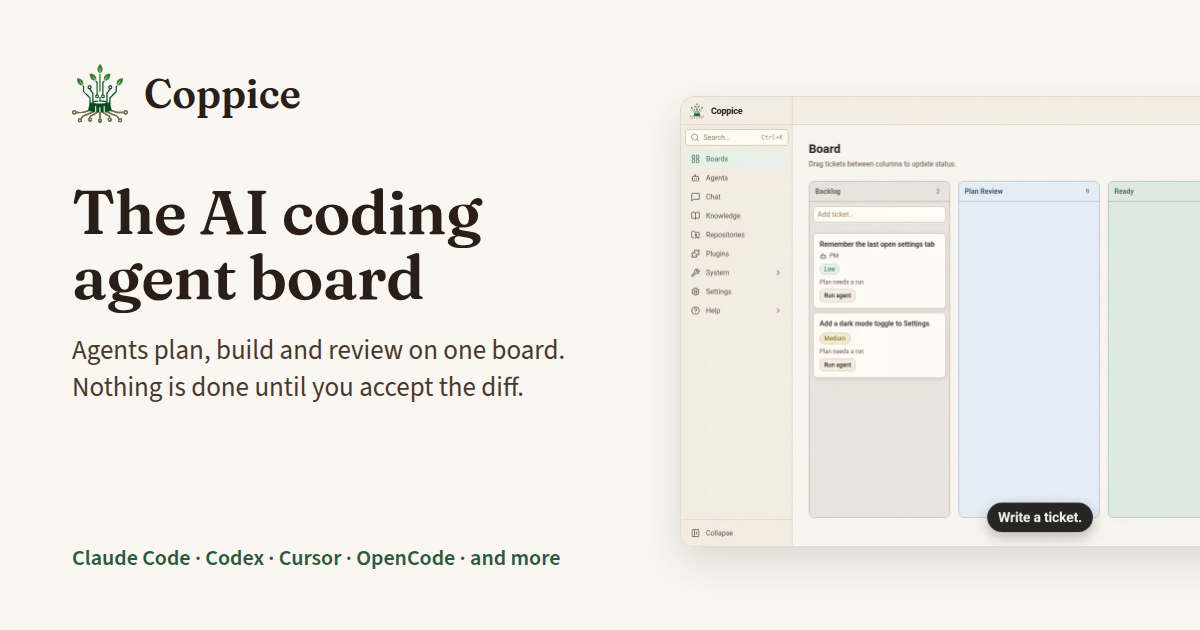
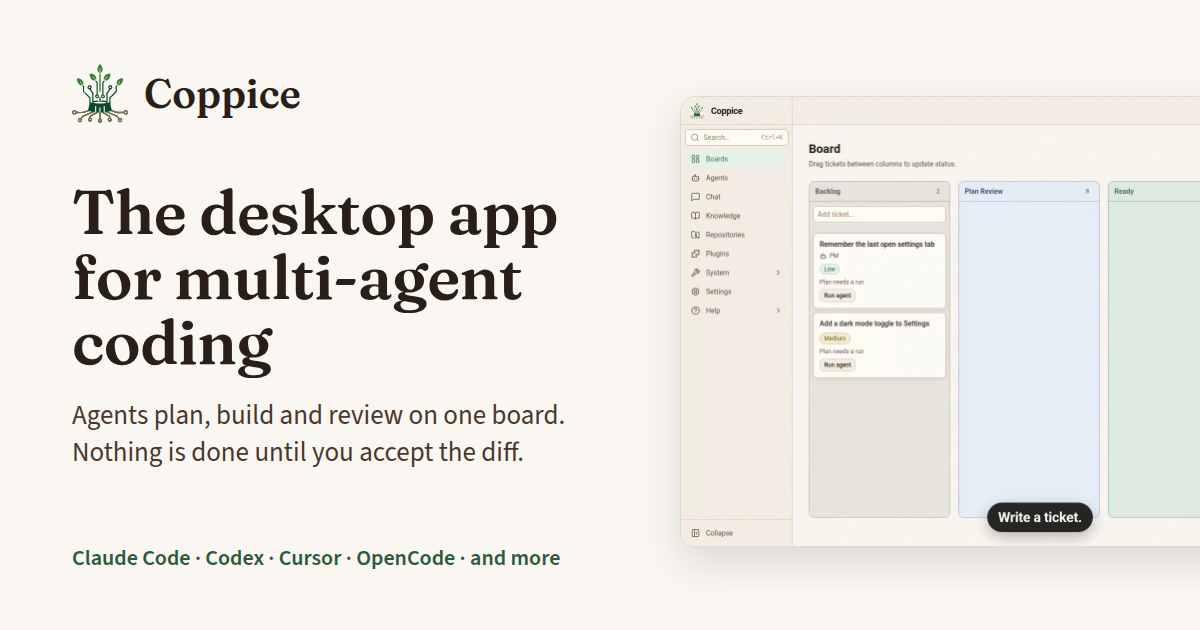
Use "multi-agent coding" wording across the site, READMEs, and packages
PR #260 changed the homepage title. This updates the rest of the site and
package text to match: the primary keyword and structured data, the social
card and its alt text, the web manifest, download and docs-index meta, the
localized READMEs, and the Linux package summary. "AI coding agent board"
stays as a secondary keyword. Also fixes the sentence order in two blog
back-links and removes the repeated CLI names from the homepage intro.

Changed region(s): [[0.0617, 0.3016, 0.4625, 0.754]]

diff --git a/website/src/i18n/pages/en.ts b/website/src/i18n/pages/en.ts
@@ -8,7 +8,7 @@ export const pages = {
       'Coppice is a desktop app for multi-agent coding. You write tickets, approve the plan, and accept the diff. Agents run CLIs such as Claude Code and Codex.',
     worksWith: 'Works with',
     h1: 'Hire specialists. Keep the final say.',
-    lede: 'A desktop app for multi-agent coding with Claude Code, Codex, and more. Your PM agent drafts the plan, and you approve it. Specialist agents build in parallel. Nothing is done until you accept the diff.',
+    lede: 'A desktop app for multi-agent coding. Your PM agent drafts the plan, and you approve it. Specialist agents build in parallel. Nothing is done until you accept the diff.',
     hero: {
       stillAlt: 'Coppice board with tickets for the acme-web repository',
       videoAlt:
@@ -76,7 +76,7 @@ export const pages = {
     title: 'Download Coppice',
     metaTitle: 'Download Coppice for macOS and Linux',
     description:
-      'Download Coppice, the free, open source AI coding agent board, for macOS (Apple Silicon or Intel) and Linux. It runs on your machine without a Coppice account.',
+      'Download Coppice, the free, open source desktop app for multi-agent coding, for macOS and Linux. It runs on your machine without a Coppice account.',
     intro: "Coppice is free. It runs on your machine, and you don't need a Coppice account.",
     groups: [
       {
@@ -120,7 +120,7 @@ export type Pages = typeof pages;
 export const homeEntry = {
   whatTitle: 'What Coppice is',
   whatBody:
-    'Coppice is a local desktop board for coding agents. You write tickets on your own machine. The agents run CLIs you already use, such as Claude Code, Codex, and Cursor, and each ticket gets its own git worktree. You don\'t need a Coppice account. Coppice does not ask for or store a provider API key.',
+    'Coppice is a desktop app for multi-agent coding. You write tickets on your own machine. The agents run CLIs you already use, such as Claude Code, Codex, and Cursor, and each ticket gets its own git worktree. You don\'t need a Coppice account. Coppice does not ask for or store a provider API key.',
   guidesTitle: 'Guides',
   guides: [
     {

diff --git a/website/src/i18n/pages/ja.ts b/website/src/i18n/pages/ja.ts
@@ -10,7 +10,7 @@ export const pages: Pages = {
       'Coppice はマルチエージェント開発のデスクトップアプリです。計画を承認し、diff を受け入れます。Claude Code や Codex などがパソコンで動きます。',
     worksWith: '対応 CLI：',
     h1: '専門家を雇い、最終判断はあなたに。',
-    lede: 'Claude Code、Codex などに対応した、マルチエージェント開発のデスクトップアプリです。PM エージェントが計画を下書きし、あなたが承認します。専門のエージェントが並行して作ります。あなたが diff を承認するまで、何も完了にはなりません。',
+    lede: 'マルチエージェント開発のデスクトップアプリです。PM エージェントが計画を下書きし、あなたが承認します。専門のエージェントが並行して作ります。あなたが diff を承認するまで、何も完了にはなりません。',
     hero: {
       stillAlt: 'acme-web リポジトリのチケットが並ぶ Coppice のボード',
       videoAlt:
@@ -77,7 +77,7 @@ export const pages: Pages = {
     title: 'Coppice をダウンロード',
     metaTitle: 'Coppice をダウンロード（macOS・Linux）',
     description:
-      '無料でオープンソースの AI コーディングエージェントボード Coppice を、macOS（Apple Silicon・Intel）と Linux 向けに配布しています。アカウント不要。',
+      '無料でオープンソースのマルチエージェント開発デスクトップアプリ Coppice を、macOS（Apple Silicon・Intel）と Linux 向けに配布しています。アカウント不要。',
     intro: '無料で、あなたのマシンで動きます。Coppice アカウントは不要です。',
     groups: [
       {

diff --git a/website/src/i18n/pages/vi.ts b/website/src/i18n/pages/vi.ts
@@ -10,7 +10,7 @@ export const pages: Pages = {
       'Coppice là ứng dụng desktop cho multi-agent coding. Bạn viết ticket, duyệt kế hoạch và chấp nhận diff. Claude Code, Codex và các CLI khác chạy trên máy bạn.',
     worksWith: 'Dùng được với',
     h1: 'Thuê chuyên gia. Bạn là người quyết định cuối cùng.',
-    lede: 'Ứng dụng desktop cho multi-agent coding với Claude Code, Codex và hơn thế. Agent PM soạn kế hoạch, bạn duyệt. Các agent chuyên môn làm song song. Chỉ khi bạn chấp nhận diff thì việc mới tính là xong.',
+    lede: 'Ứng dụng desktop cho multi-agent coding. Agent PM soạn kế hoạch, bạn duyệt. Các agent chuyên môn làm song song. Chỉ khi bạn chấp nhận diff thì việc mới tính là xong.',
     hero: {
       stillAlt: 'Bảng Coppice với các ticket của repository acme-web',
       videoAlt:
@@ -77,7 +77,7 @@ export const pages: Pages = {
     title: 'Tải Coppice',
     metaTitle: 'Tải Coppice cho macOS và Linux',
     description:
-      'Tải Coppice, bảng điều phối AI coding agent miễn phí và mã nguồn mở, cho macOS (Apple Silicon hoặc Intel) và Linux. Chạy trên máy bạn, không cần tài khoản.',
+      'Tải Coppice, ứng dụng desktop miễn phí, mã nguồn mở cho multi-agent coding, cho macOS và Linux. Chạy trên máy bạn, không cần tài khoản.',
     intro: 'Miễn phí, chạy ngay trên máy bạn, không cần tài khoản Coppice.',
     groups: [
       {

diff --git a/website/src/i18n/pages/fr.ts b/website/src/i18n/pages/fr.ts
@@ -10,7 +10,7 @@ export const pages: Pages = {
       'Coppice est une application de bureau pour le codage multi-agent. Vous approuvez le plan et le diff. Claude Code, Codex et d’autres tournent sur votre machine.',
     worksWith: 'Fonctionne avec',
     h1: 'Recrutez des spécialistes. Gardez le dernier mot.',
-    lede: 'Une application de bureau pour le codage multi-agent, avec Claude Code, Codex et d’autres. Votre agent PM rédige le plan, et vous l’approuvez. Des agents spécialisés construisent en parallèle. Rien n’est terminé tant que vous n’avez pas accepté le diff.',
+    lede: 'Une application de bureau pour le codage multi-agent. Votre agent PM rédige le plan, et vous l’approuvez. Des agents spécialisés construisent en parallèle. Rien n’est terminé tant que vous n’avez pas accepté le diff.',
     hero: {
       stillAlt: 'Tableau Coppice avec des tickets pour le dépôt acme-web',
       videoAlt:
@@ -77,7 +77,7 @@ export const pages: Pages = {
     title: 'Télécharger Coppice',
     metaTitle: 'Télécharger Coppice pour macOS et Linux',
     description:
-      'Téléchargez Coppice, le tableau d’agents de code IA gratuit et open source, pour macOS (Apple Silicon ou Intel) et Linux. Tourne en local, sans compte.',
+      'Téléchargez Coppice, l’application de bureau gratuite et open source pour le codage multi-agent, pour macOS et Linux. Tourne en local, sans compte.',
     intro: 'Gratuit, tourne sur votre propre machine, sans compte Coppice.',
     groups: [
       {

diff --git a/website/src/i18n/pages/zh-tw.ts b/website/src/i18n/pages/zh-tw.ts
@@ -10,7 +10,7 @@ export const pages: Pages = {
       'Coppice 是多代理程式設計的桌面應用程式。你寫工單、批准計劃，並接受 diff。Claude Code、Codex 等代理在你的電腦上執行。',
     worksWith: '支援',
     h1: '僱用專家，你來拍板。',
-    lede: '這是多代理程式設計的桌面應用程式，支援 Claude Code、Codex 等。你的 PM 代理起草計劃，由你批准。專業代理並行實作。你接受 diff 之前，都不算完成。',
+    lede: '這是多代理程式設計的桌面應用程式。你的 PM 代理起草計劃，由你批准。專業代理並行實作。你接受 diff 之前，都不算完成。',
     hero: {
       stillAlt: 'Coppice 看板，上面是 acme-web 倉庫的工單',
       videoAlt:
@@ -73,7 +73,7 @@ export const pages: Pages = {
     title: '下載 Coppice',
     metaTitle: '下載 Coppice（macOS 和 Linux）',
     description:
-      '下載 Coppice：免費開源的 AI 程式設計代理看板，支援 macOS（Apple Silicon 或 Intel）和 Linux。在本機執行，不需要 Coppice 帳號。',
+      '下載 Coppice：免費開源的多代理程式設計桌面應用程式，支援 macOS（Apple Silicon 或 Intel）和 Linux。在本機執行，不需要 Coppice 帳號。',
     intro: '免費，在你自己的電腦上執行，不需要 Coppice 帳號。',
     groups: [
       {

diff --git a/website/src/i18n/pages/zh-cn.ts b/website/src/i18n/pages/zh-cn.ts
@@ -10,7 +10,7 @@ export const pages: Pages = {
       'Coppice 是用于多智能体编程的桌面应用。你写工单、批准计划，并接受 diff。Claude Code、Codex 等智能体在你的电脑上运行。',
     worksWith: '支持',
     h1: '雇用专家，你来拍板。',
-    lede: '这是用于多智能体编程的桌面应用，支持 Claude Code、Codex 等。你的 PM 智能体起草计划，由你批准。专业智能体并行构建。你接受 diff 之前，什么都不算完成。',
+    lede: '这是用于多智能体编程的桌面应用。你的 PM 智能体起草计划，由你批准。专业智能体并行构建。你接受 diff 之前，什么都不算完成。',
     hero: {
       stillAlt: 'Coppice 看板，上面是 acme-web 仓库的工单',
       videoAlt:
@@ -73,7 +73,7 @@ export const pages: Pages = {
     title: '下载 Coppice',
     metaTitle: '下载 Coppice（macOS 和 Linux）',
     description:
-      '下载 Coppice：免费开源的 AI 编程智能体看板，支持 macOS（Apple Silicon 或 Intel）和 Linux。本地运行，无需 Coppice 账号。',
+      '下载 Coppice：免费开源的多智能体编程桌面应用，支持 macOS（Apple Silicon 或 Intel）和 Linux。本地运行，无需 Coppice 账号。',
     intro: '免费，在你自己的电脑上运行，无需 Coppice 账号。',
     groups: [
       {

diff --git a/website/src/i18n/pages/zh-hk.ts b/website/src/i18n/pages/zh-hk.ts
@@ -10,7 +10,7 @@ export const pages: Pages = {
       'Coppice 是多代理程式設計的桌面軟件。你寫工單、批准計劃，並接受 diff。Claude Code、Codex 等代理在你的電腦上執行。',
     worksWith: '支援',
     h1: '僱用專家，你來拍板。',
-    lede: '這是多代理程式設計的桌面軟件，支援 Claude Code、Codex 等。你的 PM 代理起草計劃，由你批准。專業代理並行構建。你接受 diff 之前，甚麼都不算完成。',
+    lede: '這是多代理程式設計的桌面軟件。你的 PM 代理起草計劃，由你批准。專業代理並行構建。你接受 diff 之前，甚麼都不算完成。',
     hero: {
       stillAlt: 'Coppice 看板，上面是 acme-web 倉庫的工單',
       videoAlt:
@@ -73,7 +73,7 @@ export const pages: Pages = {
     title: '下載 Coppice',
     metaTitle: '下載 Coppice（macOS 和 Linux）',
     description:
-      '下載 Coppice：免費開源的 AI 程式設計代理看板，支援 macOS（Apple Silicon 或 Intel）和 Linux。本地執行，無需 Coppice 帳號。',
+      '下載 Coppice：免費開源的多代理程式設計桌面軟件，支援 macOS（Apple Silicon 或 Intel）和 Linux。本地執行，無需 Coppice 帳號。',
     intro: '免費，在你自己的電腦上執行，無需 Coppice 帳號。',
     groups: [
       {

diff --git a/website/src/lib/structured-data.ts b/website/src/lib/structured-data.ts
@@ -1,4 +1,4 @@
-import { AGENT_CLIS, PRIMARY_KEYWORD } from '../content/agents.ts';
+import { AGENT_CLIS, PRIMARY_KEYWORD, SECONDARY_KEYWORD } from '../content/agents.ts';
 import { publicHref } from '../i18n/paths.ts';
 
 /** schema.org JSON-LD. Pages share one Organization, WebSite and SoftwareApplication, linked by `@id`. */
@@ -62,9 +62,9 @@ export function softwareApplication(
     image: options.image,
     screenshot: options.screenshot,
     inLanguage: options.inLanguage,
-    keywords: [PRIMARY_KEYWORD, ...AGENT_CLIS].join(', '),
+    keywords: [PRIMARY_KEYWORD, SECONDARY_KEYWORD, ...AGENT_CLIS].join(', '),
     featureList: [
-      'Coding agents with roles plan, build and review on one board',
+      'Multi-agent coding: agents with roles plan, build and review on one board',
       'Each ticket runs in its own git worktree',
       'Human review of every diff before it counts as done',
       `Works with ${AGENT_CLIS.join(', ')}`,

diff --git a/website/src/content/agents.ts b/website/src/content/agents.ts
@@ -14,5 +14,8 @@ export const AGENT_CLIS = [
   'Grok',
 ] as const;
 
-/** Search phrase the site leads with, ahead of the CLI names. */
-export const PRIMARY_KEYWORD = 'AI coding agent board';
+/** Search phrase the site leads with, ahead of the CLI names. Matches the homepage title. */
+export const PRIMARY_KEYWORD = 'multi-agent coding';
+
+/** Second search phrase: what the app looks like once it is open. */
+export const SECONDARY_KEYWORD = 'AI coding agent board';

diff --git a/website/src/content/blog/en/planning-with-ai-coding-agents.md b/website/src/content/blog/en/planning-with-ai-coding-agents.md
@@ -16,7 +16,7 @@ keywords:
 
 ## Why plan first
 
-When an agent goes straight to code, a misunderstanding shows up only in the diff. By then the agent has built the wrong thing, and you spend your time reading it, explaining what you meant, and waiting for another attempt. A plan shows the same misunderstanding in a few lines you can read in a minute. That check matters more once several agents share the work, which is the subject of [multi-agent coding](/blog/multi-agent-coding).
+When an agent goes straight to code, a misunderstanding shows up only in the diff. By then the agent has built the wrong thing, and you spend your time reading it, explaining what you meant, and waiting for another attempt. A plan shows the same misunderstanding in a few lines you can read in a minute. That check matters more when [several agents share the work](/blog/multi-agent-coding).
 
 Getting a plan is easy: any agent writes one if you ask. Making it useful is the hard part. The request is vague, the agent guesses instead of asking, the plan lists steps without the decisions behind them, and once coding starts, nobody checks the code against it.
 

diff --git a/website/src/content/blog/en/stop-repeating-mistakes.md b/website/src/content/blog/en/stop-repeating-mistakes.md
@@ -17,7 +17,7 @@ keywords:
 
 ## Why this is hard
 
-You correct the agent. The next task starts clean, and the mistake shows up again. The gap is wider in [multi-agent coding](/blog/multi-agent-coding), where the next agent never saw the correction. A coding agent does not keep that correction once the chat ends. Something has to put it in front of the next run, or a check has to fail when the mistake comes back.
+You correct the agent. The next task starts clean, and the mistake shows up again. A coding agent does not keep that correction once the chat ends. In [multi-agent coding](/blog/multi-agent-coding) the gap is wider, because the next task may go to an agent that never saw the correction. Something has to put it in front of the next run, or a check has to fail when the mistake comes back.
 
 ## Option 1: A rules file in the project
 

diff --git a/README.ja.md b/README.ja.md
@@ -16,7 +16,7 @@
 
 <p align="center">
   <strong>専門家を雇い、最終判断はあなたに。</strong><br />
-  役割を持ったコーディングエージェントが 1 つのボードで計画し、作り、レビューします。あなたが diff を承認するまで、何も完了にはなりません。<br />
+  マルチエージェント開発のデスクトップアプリです。エージェントが 1 つのボードで計画し、作り、レビューします。あなたが diff を承認するまで、何も完了にはなりません。<br />
   ローカルで動くオープンソースです。すでに契約しているエージェント CLI をそのまま使います。
 </p>
 
